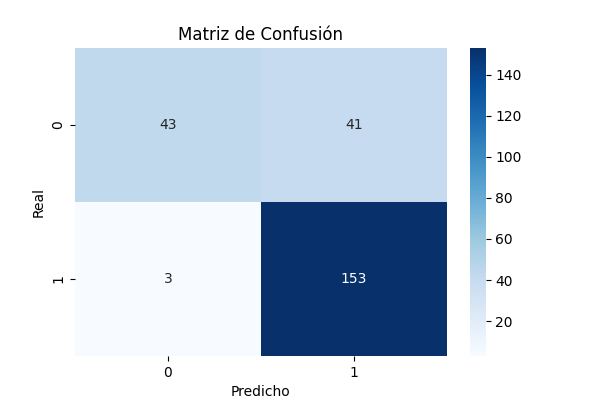
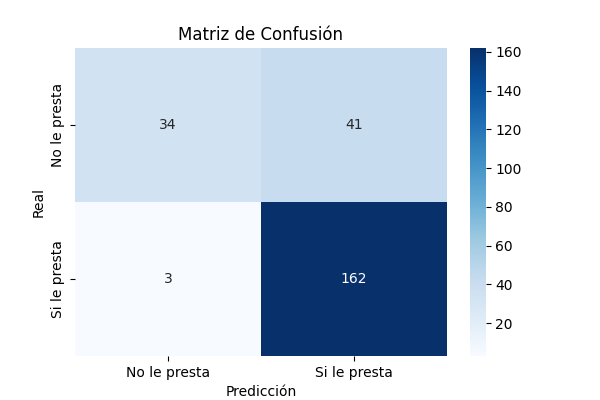
Creación de medidas

diff --git a/Regresion_Logistica.py b/Regresion_Logistica.py
@@ -1,11 +1,14 @@
 import pandas as pd
-import matplotlib.pyplot as plt
-import seaborn as sns
 from sklearn.model_selection import train_test_split
 from sklearn.linear_model import LogisticRegression
+from sklearn import metrics
 from sklearn.metrics import classification_report, confusion_matrix, accuracy_score
+import matplotlib.pyplot as plt
+import numpy as np
+import seaborn as sns
 
 df = pd.read_csv('Loan_Eligibility_1200.csv')
+df.describe()
 
 nuevas_columnas = [
     'ID_Cliente', 'Genero', 'Casado', 'Dependientes', 'Educacion', 'Independiente',
@@ -42,7 +45,7 @@ X = df.drop('Estado_Prestamo', axis=1)
 y = df['Estado_Prestamo']
 
 # División del dataset en entrenamiento y prueba
-X_train, X_test, y_train, y_test = train_test_split(X, y, test_size=0.2, random_state=42)
+X_train, X_test, y_train, y_test = train_test_split(X, y, test_size=0.2, random_state=0)
 
 # Entrenamiento del modelo
 modelo = LogisticRegression(max_iter=1000) # max_iter aumentado para asegurar convergencia
@@ -51,8 +54,16 @@ modelo.fit(X_train, y_train)
 # Realizar predicciones
 y_pred = modelo.predict(X_test)
 
-# Evaluación del modelo
-print(f"Accuracy- Precisión del Modelo: {accuracy_score(y_test, y_pred):.2f}")
+# Medidas
+#Accurary (Exactitud)
+print(f"Accuracy: {accuracy_score(y_test, y_pred):.2f}")
+#Presicion (Presición)
+print(f"Presición: {precision_score(y_test, y_pred):.2f}")
+#Recall (Exhaustividad)
+print(f"Recall: {recall_score(y_test, y_pred):.2f}")
+#F1 Score
+print(f"F1 Score: {f1_score(y_test, y_pred):.2f}")
+
 
 print("\n--- Matriz de Confusión ---")
 cm = confusion_matrix(y_test, y_pred)
